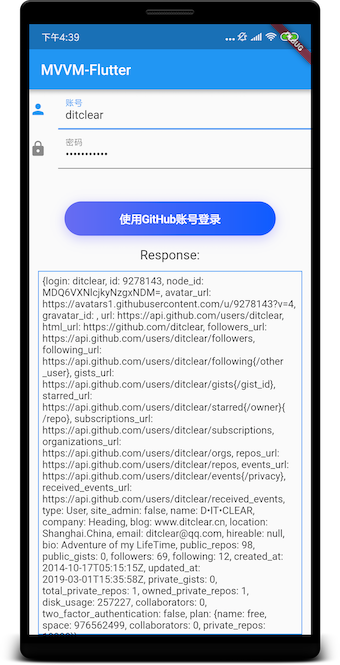
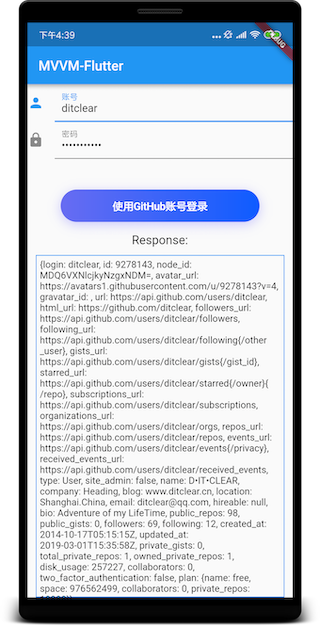
update to dartin

diff --git a/lib/viewmodel/home_provide.dart b/lib/viewmodel/home_provide.dart
@@ -2,7 +2,6 @@ import 'dart:async';
 
 import 'package:dio/dio.dart';
 import 'package:flutter/material.dart';
-import 'package:mvvm_flutter/di/dartin.dart';
 import 'package:mvvm_flutter/model/repository.dart';
 import 'package:rxdart/rxdart.dart';
 
@@ -11,11 +10,11 @@ import 'package:rxdart/rxdart.dart';
  */
 class HomeProvide extends ChangeNotifier {
   final CompositeSubscription _subscriptions = CompositeSubscription();
-  final GithubRepo _repo; //数据仓库
-  String username = ""; //账号
-  String password = ""; //密码
-  bool _loading = false; // 加载中
-  String _response = ""; //响应数据
+  final GithubRepo _repo;
+  String username = "";
+  String password = "";
+  bool _loading = false;
+  String _response = "";
 
   final String title;
 
@@ -45,11 +44,11 @@ class HomeProvide extends ChangeNotifier {
   HomeProvide(this.title,this._repo);
 
   /**
-   * 调用model层的方法进行登录
-   * doOnData : 请求成功时，处理响应数据
-   * doOnError : 请求失败时，处理错误
-   * doOnListen ： 开始时loading为true,通知ui更新
-   * doOnDone ： 结束时loading为false,通知ui更新
+   * call the model layer 's method to login
+   * doOnData : handle response when success
+   * doOnError : handle error when failure
+   * doOnListen ： show loading when listen start
+   * doOnDone ： hide loading when complete
    */
   Observable login() => _repo
       .login(username, password)
@@ -72,6 +71,7 @@ class HomeProvide extends ChangeNotifier {
 
   }
 
+  /// add [StreamSubscription] to [_subscriptions]
   void plus(StreamSubscription s) {
     _subscriptions.add(s);
   }

diff --git a/lib/view/home_page.dart b/lib/view/home_page.dart
@@ -1,6 +1,6 @@
+import 'package:dartin/dartin.dart';
 import 'package:flutter/cupertino.dart';
 import 'package:flutter/material.dart';
-import 'package:mvvm_flutter/di/dartin.dart';
 import 'package:mvvm_flutter/helper/dialog.dart';
 import 'package:mvvm_flutter/helper/toast.dart';
 import 'package:mvvm_flutter/helper/widgetutils.dart';
@@ -100,7 +100,7 @@ class _HomeContentState extends State<_HomeContentPage> with SingleTickerProvide
                 decoration: InputDecoration(
                   contentPadding: EdgeInsets.all(10.0),
                   icon: Icon(Icons.person),
-                  labelText: '账号',
+                  labelText: 'Account',
                 ),
                 autofocus: false,
                 onChanged: (str) => _viewModel.username = str,
@@ -111,7 +111,7 @@ class _HomeContentState extends State<_HomeContentPage> with SingleTickerProvide
                 decoration: InputDecoration(
                   contentPadding: EdgeInsets.all(10.0),
                   icon: Icon(Icons.lock),
-                  labelText: '密码',
+                  labelText: 'Password',
                 ),
                 autofocus: false,
                 onChanged: (str) => _viewModel.password = str,
@@ -168,7 +168,7 @@ class _HomeContentState extends State<_HomeContentPage> with SingleTickerProvide
       return const FittedBox(
         fit: BoxFit.scaleDown,
         child: const Text(
-          '使用GitHub账号登录',
+          'Login With Github Account',
           maxLines: 1,
           textAlign: TextAlign.center,
           overflow: TextOverflow.fade,

diff --git a/lib/helper/widgetutils.dart b/lib/helper/widgetutils.dart
@@ -10,23 +10,23 @@ dispatchFailure(BuildContext context, dynamic e) {
     final response = e.response;
 
     if (response?.statusCode == 401) {
-      message = "账号或密码错误";
+      message = "account or password error ";
     } else if (403 == response?.statusCode) {
-      message = "禁止访问";
+      message = "forbidden";
     } else if (404 == response?.statusCode) {
-      message = "链接错误";
+      message = "page not found";
     } else if (500 == response?.statusCode) {
-      message = "服务器内部错误";
+      message = "Server internal error";
     } else if (503 == response?.statusCode) {
-      message = "服务器升级中";
+      message = "Server Updating";
     } else if (e.error is SocketException) {
-      message = "网络未连接";
+      message = "network cannot use";
     } else {
       message = "Oops!!";
     }
   }
-  print("出错了："+message);
-  if(context!=null) {
+  print("error ：" + message);
+  if (context != null) {
     Toast.show(message, context, type: Toast.ERROR);
   }
 }

diff --git a/lib/helper/dialog.dart b/lib/helper/dialog.dart
@@ -6,13 +6,12 @@ Future<T> _showAlert<T>({BuildContext context, Widget child}) => showDialog<T>(
       barrierDismissible: false,
       builder: (BuildContext context) => child,
     );
-/**
- * onlyPositive  : 只有确定按钮
- */
+
+
 Future<bool> showAlert(BuildContext context,
         {String title,
-        String negativeText = "取消",
-        String positiveText = "确定",
+        String negativeText = "Cancel",
+        String positiveText = "Confirm",
         bool onlyPositive = false}) =>
     _showAlert<bool>(
       context: context,
@@ -64,9 +63,7 @@ List<Widget> _buildAlertActions(BuildContext context, bool onlyPositive,
   }
 }
 
-/**
- * 显示loading框  , 隐藏调用 Navigator.pop(context)
- */
+
 Future _showLoadingDialog(BuildContext c, LoadingDialog loading,
         {bool cancelable = true}) =>
     showDialog(

diff --git a/lib/di/app_module.dart b/lib/di/app_module.dart
@@ -1,13 +1,14 @@
 import 'package:mvvm_flutter/model/remote.dart';
 import 'package:mvvm_flutter/model/repository.dart';
 import 'package:mvvm_flutter/viewmodel/home_provide.dart';
+import 'package:dartin/dartin.dart';
 
-import 'dartin.dart';
+const testScope = DartInScope('test');
 
 final viewModelModule = Module([
   factory<HomeProvide>(({params}) => HomeProvide(params.get(0), get<GithubRepo>())),
 ])
-  ..addOthers(DartInScope('test'), [
+  ..addOthers(testScope, [
     ///other scope
 //  factory<HomeProvide>(({params}) => HomeProvide(params.get(0), get<GithubRepo>())),
   ]);

diff --git a/lib/view/base.dart b/lib/view/base.dart
@@ -2,14 +2,14 @@ import 'package:flutter/material.dart';
 import 'package:provide/provide.dart';
 
 /**
- * 普通widget点击事件处理
+ * normal click event
  */
 abstract class Presenter {
   void onClick(String action);
 }
 
 /**
- * 列表Item点击事件处理
+ * ListView Item Click
  */
 abstract class ItemPresenter<T> {
   void onItemClick(String action, T item);

diff --git a/lib/main.dart b/lib/main.dart
@@ -2,10 +2,13 @@ import 'package:flutter/material.dart';
 import 'package:mvvm_flutter/view/home_page.dart';
 
 import 'di/app_module.dart';
-import 'di/dartin.dart';
+import 'package:dartin/dartin.dart';
+
 
 void main() {
+  /// DartIn start
   startDartIn(appModule);
+
   runApp(MyApp());
 }
 

diff --git a/lib/di/modules.dart b/lib/di/modules.dart
@@ -7,6 +7,7 @@ final Dio dio = Dio()
   ..interceptors.add(AuthInterceptor())
   ..interceptors.add(LogInterceptor(responseBody: true, requestBody: true));
 
+
 class AuthInterceptor extends Interceptor {
   @override
   onRequest(RequestOptions options) {

diff --git a/README.md b/README.md
@@ -2,25 +2,30 @@
 
 Build MVVM App for Android and IOS with Flutter。
 
-项目结构类似于[MVVM-Android](https://github.com/ditclear/MVVM-Android)。
+The Structure seems like [MVVM-Android](https://github.com/ditclear/MVVM-Android)。
 
 ![](architecture.png)
 
-##### 下载体验
+##### DownLoad
 
 ![](android.png)
 
 #### dependencies
 
-- [dio](https://github.com/flutterchina/dio) : 网络请求
-- [rxdart](https://github.com/ReactiveX/rxdart)：响应式编程
-- [flutter-provide](https://github.com/google/flutter-provide)：通知ui更新数据
+- [dio](https://github.com/flutterchina/dio) : netword 
+- [rxdart](https://github.com/ReactiveX/rxdart)：reactive programming
+- [flutter-provide](https://github.com/google/flutter-provide)：state managing
+- [dartin](https://github.com/ditclear/dartin): dependency injection
 
-> 思想：M-V-VM各层直接通过rx衔接，配合响应式的思想和rxdart的操作符进行逻辑处理，最后通过provide来更新视图。
+> PS：each layer connected by rx, use responsive thinking and rxdart operators for logical processing.Finally, update the view with [flutter-provide](https://github.com/google/flutter-provide).
 
-### 截图
+### ScreenShot
 
-![](screenshot.png)
+![](screenshot.png)![](ios.png)
+
+
+
+
 
 #### Code
 
@@ -42,20 +47,20 @@ class GithubRepo {
 }
 //viewmodel
 class HomeViewModel extends ChangeNotifier {
-  final GithubRepo _repo; //数据仓库
-  String username = ""; //账号
-  String password = ""; //密码
-  bool _loading = false; // 加载中
-  String _response = ""; //响应数据
+  final GithubRepo _repo; 
+  String username = ""; 
+  String password = ""; 
+  bool _loading = false; 
+  String _response = ""; 
   //...
   HomeViewModel(this._repo);
 
-  /**
-   * 调用model层的方法进行登录
-   * doOnData : 请求成功时，处理响应数据
-   * doOnError : 请求失败时，处理错误
-   * doOnListen ： 开始时loading为true,通知ui更新
-   * doOnDone ： 结束时loading为false,通知ui更新
+   /**
+   * call the model layer 's method to login
+   * doOnData : handle response when success
+   * doOnError : handle error when failure
+   * doOnListen ： show loading when listen start
+   * doOnDone ： hide loading when complete
    */
   Observable login() => _repo
       .login(username, password)
